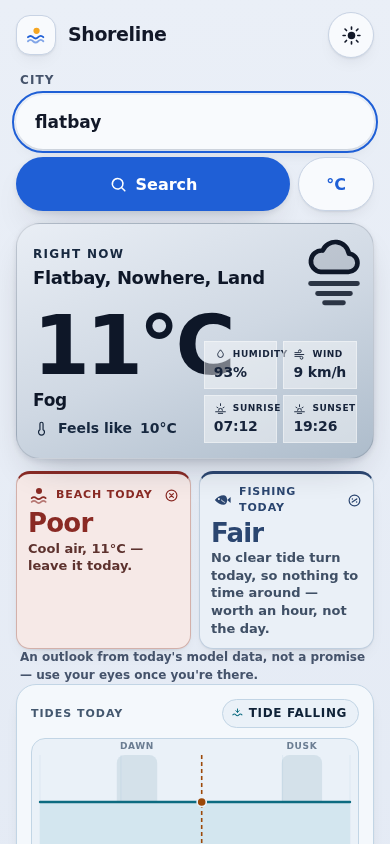
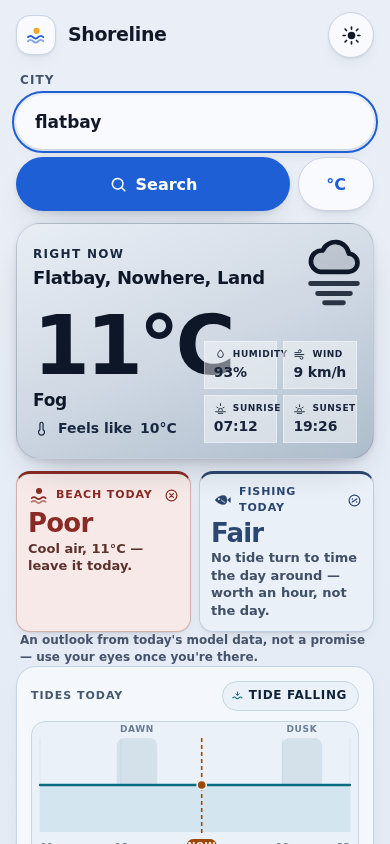
Verdict reasons: convert with the unit toggle, fix the tide clause
Live data surfaced two faults in the copy a person actually reads:

- The fishing "tide" factor read as a clause bolted onto a list
  ("2.2 m waves and the tide turns at 03:00, 09:00 ... not in low
  light"). It is a noun phrase now — "no tide turn in low light
  (03:00, 09:00, ...)" — so it lists beside waves and wind.
- A Fahrenheit reader got metres and km/h inside the sentence while
  every number beside it converted. Reasons are re-derived per render,
  so the sentence now agrees with the panel: "11.2 ft waves and a
  26 mph wind". Ratings and keywords are unchanged by units; audit/
  water-rules.js asserts the keyword rule in both units.

Changed region(s): [[0.0308, 0.6469, 0.9538, 0.8934], [0.0923, 0.8626, 0.8923, 1.0]]

diff --git a/water.js b/water.js
@@ -155,17 +155,18 @@
   };
   const cap = (s) => (s ? s.charAt(0).toUpperCase() + s.slice(1) : s);
 
-  /* Reason wording stays on the Celsius reading — the numbers beside the words are
-     converted, the sentence is not. */
-  function beachVerdict(i) {
+  /* Reasons are re-derived per render so they always agree with the unit toggle:
+     the numbers in the sentence are the numbers printed beside them. Every held-back
+     factor keeps its contract keyword. */
+  function beachVerdict(i, units = "C") {
     const W = i.waveHeight;
     const V = i.wind;
     const P = i.precipMax;
     const C = i.code;
     const T = i.temp;
-    const wave = `${W === null ? "no" : Number(W).toFixed(1)} m waves`;
-    const breeze = V === null ? "no" : `${Math.round(V)} km/h`;
-    const cool = `cool air, ${T === null ? "cold" : Math.round(T)}°C`;
+    const wave = `${W === null ? "no" : lenText(W, units)} waves`;
+    const breeze = V === null ? "no" : windText(V, units);
+    const cool = `cool air, ${T === null ? "cold" : tempText(T, units, true)}`;
     const thunder = C !== null && THUNDER.indexOf(C) >= 0;
 
     const bad = [];
@@ -189,7 +190,7 @@
       return {
         rating: "Good",
         holds: [],
-        reason: `Small water (${W.toFixed(1)} m), a light ${breeze} breeze and clear skies — go.`,
+        reason: `Small water (${lenText(W, units)}), a light ${breeze} breeze and clear skies — go.`,
       };
     }
 
@@ -208,11 +209,11 @@
     };
   }
 
-  function fishingVerdict(i) {
+  function fishingVerdict(i, units = "C") {
     const W = i.waveHeight;
     const V = i.wind;
-    const wave = `${W === null ? "no" : Number(W).toFixed(1)} m waves`;
-    const breeze = V === null ? "no" : `${Math.round(V)} km/h`;
+    const wave = `${W === null ? "no" : lenText(W, units)} waves`;
+    const breeze = V === null ? "no" : windText(V, units);
     const thunder = i.code !== null && THUNDER.indexOf(i.code) >= 0;
 
     const bad = [];
@@ -246,9 +247,11 @@
     if (W === null || W >= 1.5) held.push(["waves", wave]);
     if (V === null || V >= 25) held.push(["wind", `a ${breeze} wind`]);
     if (!dawn.length && !dusk.length) {
+      /* A noun phrase, so it lists cleanly beside "2.2 m waves" rather than reading
+         as a second sentence bolted onto the list. */
       held.push(["tide", i.turns.length
-        ? `the tide turns at ${i.turns.map((t) => t.time).join(", ")}, not in low light`
-        : "no clear tide turn today, so nothing to time around"]);
+        ? `no tide turn in low light (${i.turns.map((t) => t.time).join(", ")})`
+        : "no tide turn to time the day around"]);
     }
     return {
       rating: "Fair",
@@ -527,11 +530,11 @@
   }
 
   function html(m) {
-    const v = {
-      beach: beachVerdict(m.inputs),
-      fishing: fishingVerdict(m.inputs),
-    };
     const units = m.units || "C";
+    const v = {
+      beach: beachVerdict(m.inputs, units),
+      fishing: fishingVerdict(m.inputs, units),
+    };
     const s = m.sea;
 
     const events = m.turns.length

diff --git a/audit/water-rules.js b/audit/water-rules.js
@@ -131,8 +131,17 @@ for (const key of Object.keys(MARINE)) {
     // brief: a non-Good rating must name the keyword of EVERY held-back factor
     check(`${key} beach holds named`, b.holds.every((h) => low(b.reason).includes(h)), true);
     check(`${key} fishing holds named`, f.holds.every((h) => low(f.reason).includes(h)), true);
+    // same keywords must survive the Fahrenheit rendering of the sentence
+    const bf = W.beachVerdict(m.inputs, 'F');
+    const ff = W.fishingVerdict(m.inputs, 'F');
+    check(`${key} beach rating (F)`, bf.rating, b.rating);
+    check(`${key} fishing rating (F)`, ff.rating, f.rating);
+    check(`${key} beach holds named (F)`, bf.holds.every((h) => low(bf.reason).includes(h)), true);
+    check(`${key} fishing holds named (F)`, ff.holds.every((h) => low(ff.reason).includes(h)), true);
+    for (const w of EXPECTED_OUTLOOK[key].fishingWords) check(`${key} fishing reason F "${w}"`, low(ff.reason).includes(w), true);
     console.log(`     beach: ${b.rating} — ${b.reason}`);
     console.log(`     fish : ${f.rating} — ${f.reason}`);
+    console.log(`     fishF: ${ff.rating} — ${ff.reason}`);
     console.log(`     best : ${W.bestTimes(m)}`);
   }
 }
